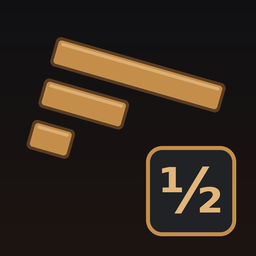
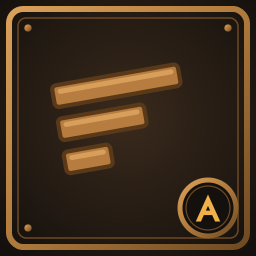
Update CI workflow and package script for improved versioning and artifact naming (#9)

diff --git a/README.md b/README.md
@@ -1,12 +1,18 @@
+[![CI](https://img.shields.io/github/actions/workflow/status/javidahmed64592/valheim-halfbeam/ci.yml?branch=main&style=flat-square&label=CI&logo=github)](https://github.com/javidahmed64592/valheim-halfbeam/actions/workflows/ci.yml)
+[![Package](https://img.shields.io/github/actions/workflow/status/javidahmed64592/valheim-halfbeam/package.yml?branch=main&style=flat-square&label=Package&logo=github)](https://github.com/javidahmed64592/valheim-halfbeam/actions/workflows/package.yml)
+[![License: MIT](https://img.shields.io/badge/License-MIT-yellow.svg)](https://opensource.org/licenses/MIT)
+
 # HalfBeam
 
 Half-sized beams so you can build with more precision.
 This mod adds shorter variants of the wood, ashwood and darkwood beams and poles, 17 new pieces in total.
 
+![HalfBeam](https://github.com/javidahmed64592/Valheim-HalfBeam/raw/main/game_screenshot.png)
+
 ## Pieces
 
 | Wood type | Beams and poles | Diagonal beams |
-| --- | --- | --- |
+|-----|-----|-----|
 | Wood | 0.5m | 26°, 45° and 67° |
 | Ashwood | 0.5m | 26°, 45° and 67° |
 | Darkwood | 1m and 0.5m | 26°, 45° and 67° |
@@ -14,15 +20,6 @@ This mod adds shorter variants of the wood, ashwood and darkwood beams and poles
 Diagonals are half the vanilla length, so they span 1m across and 0.5m, 1m or 2m up.
 Each piece costs half its original materials, rounded up to a minimum of 1.
 
-## Example
+## License
 
-The below screenshot shows the different beam variants added by the HalfBeam mod.
-
-![HalfBeam Example](https://github.com/javidahmed64592/Valheim-HalfBeam/raw/main/game_screenshot.png)
-
-## Notes
-
-- Everyone on a server needs the mod installed.
-- Removing the mod removes its pieces from your world.
-- The darkwood beams have their decorative trim stretched. This is a known visual quirk for now.
-- Snow caps are not shown on the new poles and diagonal beams.
+This project is licensed under the MIT License - see the [LICENSE](https://github.com/javidahmed64592/Valheim-HalfBeam/blob/main/LICENSE) file for details.

diff --git a/CHANGELOG.md b/CHANGELOG.md
@@ -5,6 +5,8 @@
 - Added an `.editorconfig`, `Directory.Build.props` and a CI workflow that runs `dotnet format` and a Release build.
 - Reformatted the code to match the new code style rules (no behaviour change).
 - Renamed the namespace from `HalfBeams` to `HalfBeam` to match the project.
+- Tidied up packaging scripts and workflow files.
+- Updated README and icon.
 
 ## 0.1.1
 
